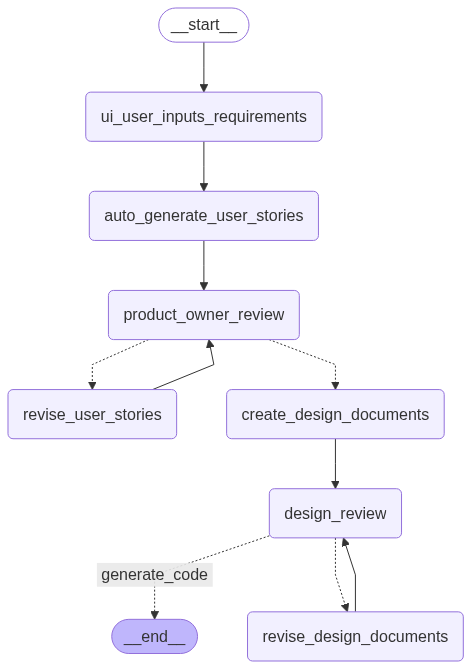
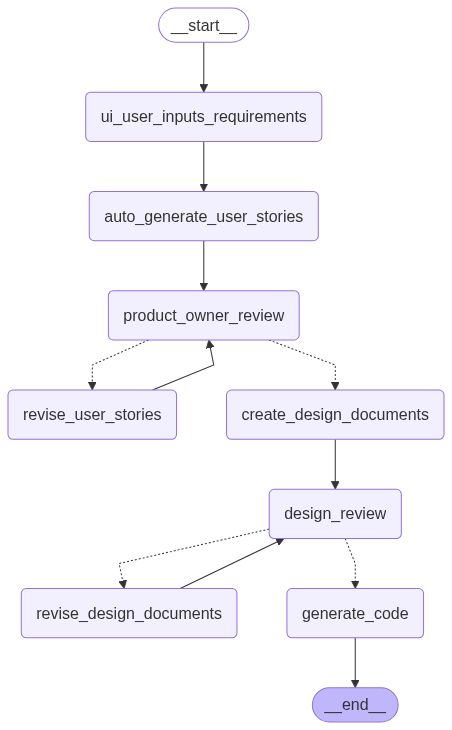
Update workflow with generate code node

diff --git a/workflow/dynamic_interrupt_workflow.py b/workflow/dynamic_interrupt_workflow.py
@@ -18,6 +18,8 @@ from nodes.design_review_node import (
     route_after_design_review_dynamic
 )
 
+from nodes.generate_code_node import generate_code
+
 def create_dynamic_interrupt_workflow():
     """
     Create SDLC workflow using DYNAMIC INTERRUPTS (Official LangGraph Pattern)
@@ -44,7 +46,8 @@ def create_dynamic_interrupt_workflow():
     workflow.add_node("create_design_documents", create_design_documents)  # ← NEW: Design docs generation (no interrupts)
     workflow.add_node("design_review", design_review_dynamic)  # ← NEW: Design review with interrupts
     workflow.add_node("revise_design_documents", revise_design_documents_dynamic)  # ← NEW: Design revision
-    
+    workflow.add_node("generate_code", generate_code)
+
     # Set entry point
     workflow.set_entry_point("ui_user_inputs_requirements")
     
@@ -73,13 +76,14 @@ def create_dynamic_interrupt_workflow():
         "design_review",
         route_after_design_review_dynamic,
         {
-            "generate_code": END,  # Approved - end for now (future: go to code generation)
+            "generate_code": "generate_code",  # Approved - end for now (future: go to code generation)
             "revise_design_documents": "revise_design_documents"  # Needs revision
         }
     )
     
     # Route back to design review after design revision (for iteration cycles)
     workflow.add_edge("revise_design_documents", "design_review")
+    workflow.add_edge("generate_code", END)
     
     # ⭐ COMPILE WITHOUT interrupt_before - interrupts are INSIDE nodes
     compiled_workflow = workflow.compile(
